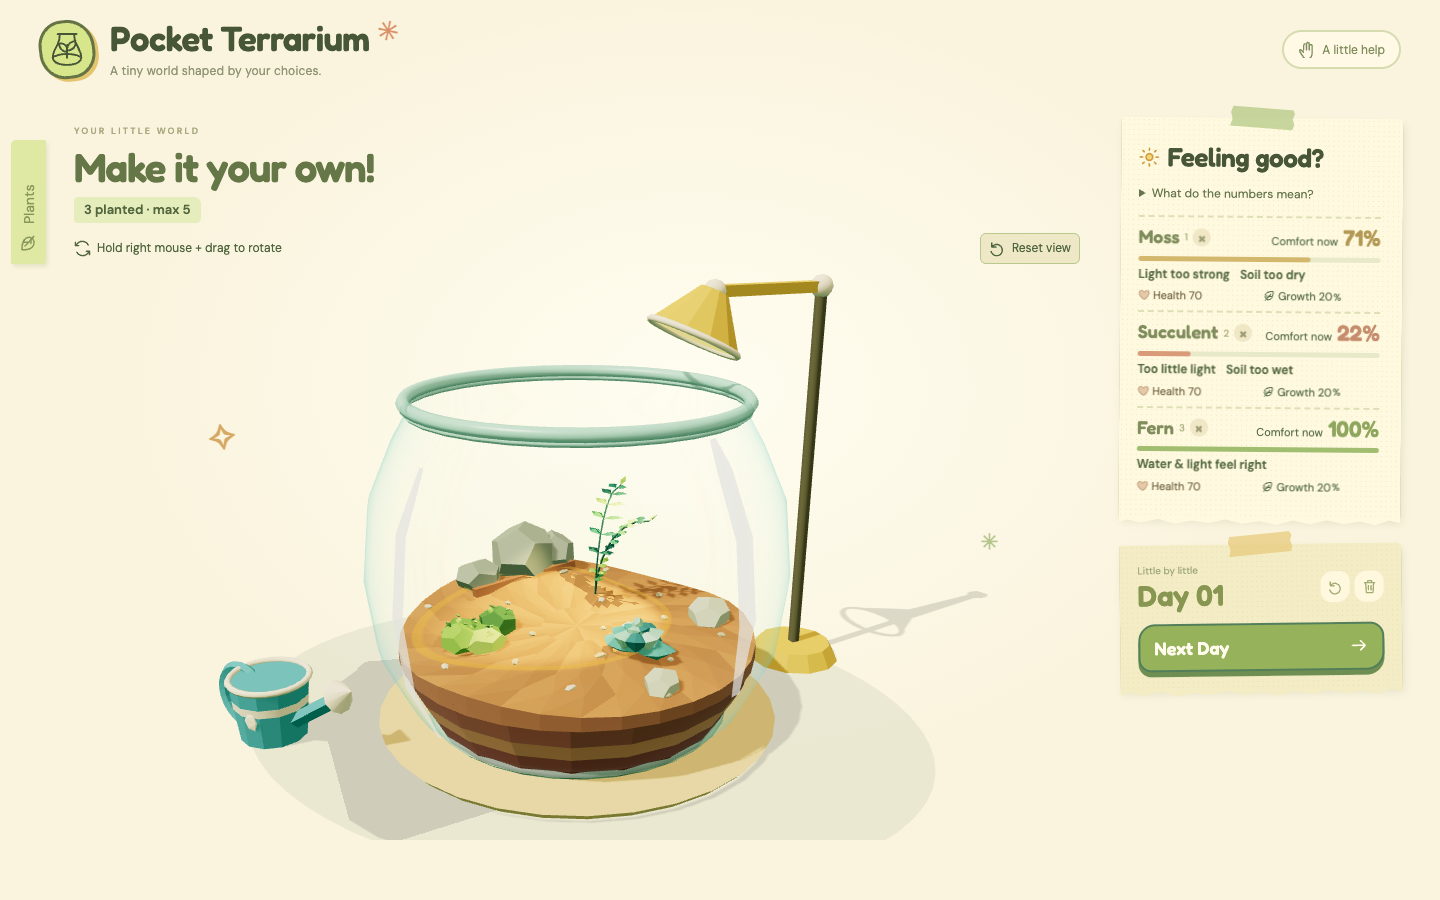
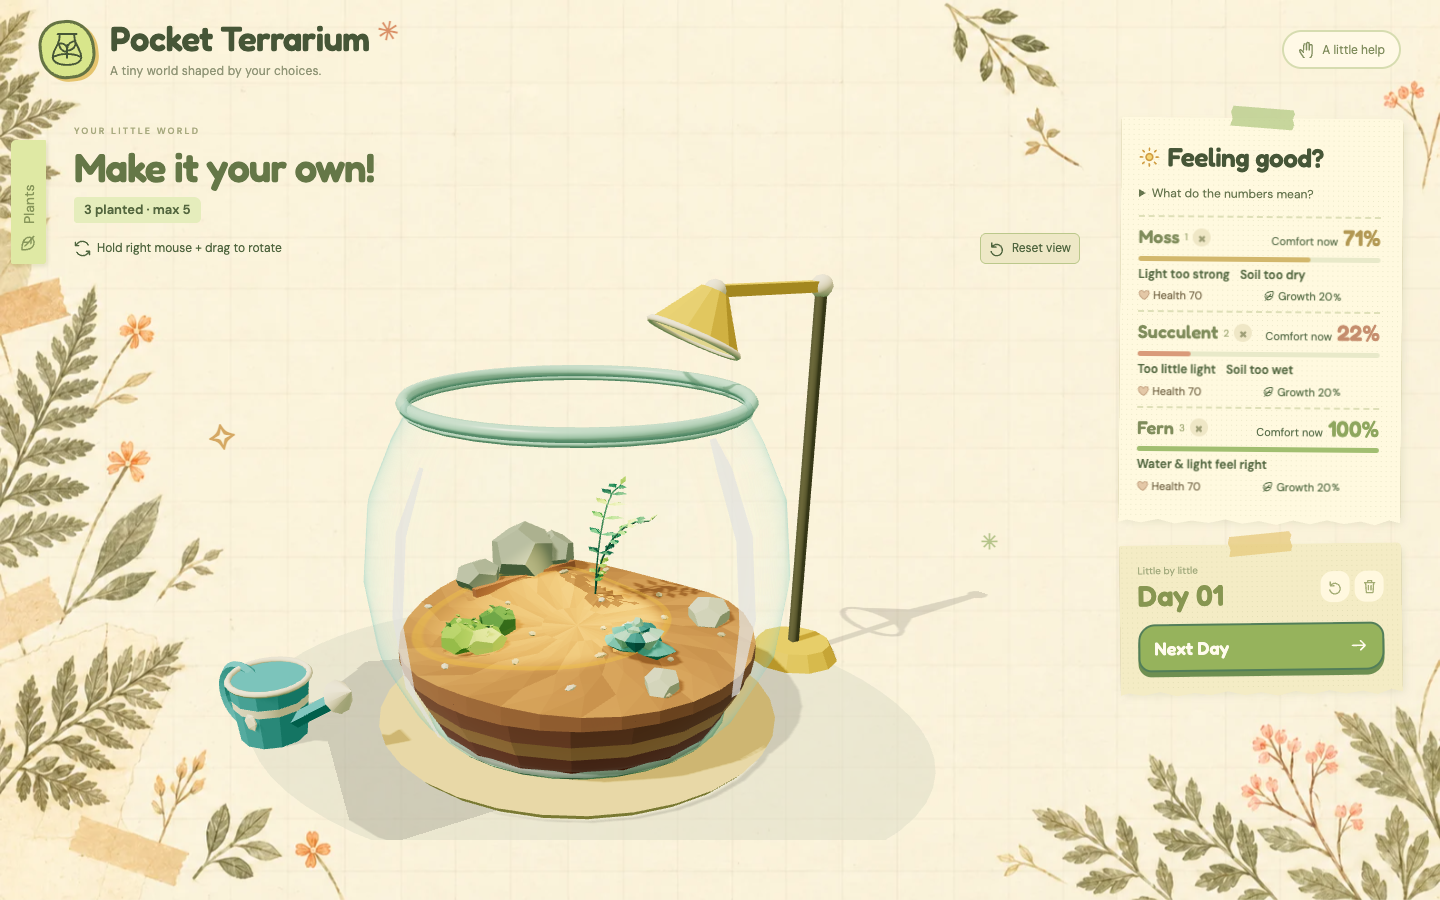
Add approved botanical journal background and update design credits

diff --git a/src/styles/background.css b/src/styles/background.css
@@ -1,0 +1,21 @@
+/* Decorative botanical paper only; all UI and terrarium objects remain live. */
+body {
+  isolation: isolate;
+  background: #faf3dd;
+}
+body::before {
+  content: "";
+  position: fixed;
+  inset: 0;
+  z-index: -1;
+  pointer-events: none;
+  background-image: url("../assets/backgrounds/botanical-journal.webp");
+  background-repeat: no-repeat;
+  background-size: cover;
+  background-position: center;
+}
+@media (max-width: 680px) {
+  body::before {
+    background-position: 12% center;
+  }
+}

diff --git a/src/main.js b/src/main.js
@@ -1,5 +1,6 @@
 import "./styles/main.css";
 import "./styles/desk.css";
+import "./styles/background.css";
 import { createUI } from "./ui/uiController.js";
 import { createScene } from "./scene/createScene.js";
 import { createInteractions } from "./interactions/plantDrag.js";

diff --git a/PROCESS.md b/PROCESS.md
@@ -135,3 +135,23 @@ Author review requested removing the Health hover hint, simplifying the low-heal
 ## Publication approved · 2026-10-22
 
 The author approved publishing the accumulated local soil/lifecycle and UI refinements. All 36 Node checks and the production build passed before submission. The prior local-only entries document the review stage; the published revision and deployment result are tracked in Git and GitHub Actions.
+
+
+## Author-selected AD background · 2026-10-22 · local only
+
+After comparing generated concepts A–D and five follow-up variants, the author chose AD: cream watercolor paper, pale honey wood and sage gingham. Generated a separate clean background with all UI/models removed, retained its native dimensions and encoded a 77,540-byte WebP. Implemented responsive decorative wall/table layers with Vite-managed asset paths. Replaced the previous pale floor ellipse with a world-space cloth mesh and one static procedural gingham texture, preserving orbit, the original models, lighting and ecological data. No continuous background animation was added. Source, final prompt and implementation decisions are in docs/design/ad-background.md. This is an author design choice, not a participant test, and remains local pending approval to publish.
+
+Validation: production build passed; the repository-subpath preview loaded the background, fonts and favicon without errors and passed its planting/day workflow. Existing tool/aim/orbit workflows passed. Inspected expanded/collapsed/rotated desktop and narrow-screen captures, and confirmed camera rotation leaves simulation data unchanged. No new participant testing or universal frame-rate claim is implied.
+
+
+## Consistent tabletop perspective · 2026-10-22 · local only
+
+The author correctly identified inconsistent motion: the mat was world-space but the wood was painted into a fixed CSS backdrop. Removed the CSS wood layer and added a thin actual 3D tabletop using the existing wood artwork as its texture. Tabletop, cloth, tools and jar now share one camera. Restricted the shadow receiver to the desk surface and added texture cleanup. This corrects the mixed spatial representation without changing plant coordinates, light simulation, or controls. Verified camera rotation changes the view while preserving table/mat/ecology data, and inspected front/rotated captures. Remains local without commit or publication.
+
+
+## Botanical journal background replaces desk experiments · 2026-10-22 · local only
+
+The author rejected the AD tabletop results and selected the earlier botanical-journal (B) concept instead. Removed the experimental 3D table/cloth and their unused assets; restored the original scene floor and shadow setup. Generated a clean background containing only ivory grid paper, marginal pressed-botanical illustrations and small decorative tape marks. No UI, text or 3D objects are baked into that asset. Earlier AD entries describe abandoned local explorations, not the final implementation. Existing simulation, UI controls and right-button orbit remain intact. No commit or publication was requested.
+
+
+Publication approved on 2026-10-22: the author approved the final botanical-journal background for GitHub. The abandoned AD desk/cloth experiments are excluded from the release. All 36 Node checks and the production build passed before publishing.

diff --git a/docs/design/botanical-background.md b/docs/design/botanical-background.md
@@ -1,0 +1,13 @@
+# Botanical journal background
+
+The author selected the earlier B concept after reviewing the tabletop experiments. The final backdrop is flat ivory grid paper with pressed-botanical marginal illustrations and decorative masking tape. There is no wood, horizon, table, cloth, UI or scene object inside the background image.
+
+- Asset: [botanical-journal.webp](../../src/assets/backgrounds/botanical-journal.webp), encoded as WebP at its generated dimensions.
+- Layout: [background.css](../../src/styles/background.css), a static pointer-transparent layer with Vite-managed asset URLs.
+- Scene: original floor/shadow setup restored. Models, growth, water, light and camera remain interactive; this picture does not replace them.
+- Built-in OpenAI image generation was used, with the author-approved B mockup as the edit target. No original external reference image is shipped as a texture.
+- Local review only; no commit or deployment without approval.
+
+## Final prompt
+
+Use case: precise-object-edit / background-extraction. This approved Pocket Terrarium botanical-journal screenshot is the edit target. Create ONLY its decorative page background as a production-ready landscape image. Preserve the warm ivory handmade paper, faint large square grid, softly aged paper texture, sage/olive pressed fern and leaf illustrations cropped along the left margin and bottom corners, tiny restrained ochre/coral flowers, small translucent torn masking-tape decorations along the far left edge, and a few thin sprigs at the top-right. Keep the broad central 65 percent mostly clean ivory grid paper. All botanical art must remain low contrast and concentrated at the edges so real UI text stays legible. REMOVE the entire interface: all logo, titles, text, numbers, buttons, cards, notes, panel tape, icons, model objects, jar, glass, plants inside jar, lamp, watering can, plate, all cast shadows and the bottom-left B label. Seamlessly fill these areas with clean paper and continued faint grid lines. NO wood tabletop, NO table, NO gingham, NO cloth, NO horizon line, NO perspective ground plane, NO blank cutouts. Flat botanical scrapbook paper illustration, not photorealistic. Full-frame 1440:900-ish landscape; no text, no watermark, no UI or model remnants anywhere.

diff --git a/README.md b/README.md
@@ -78,6 +78,7 @@ The GitHub Actions workflow in [.github/workflows/deploy.yml](.github/workflows/
 - **DM Sans** — DM Sans Project Authors; SIL Open Font License 1.1. [Bundled license](public/fonts/DM-Sans-LICENSE.txt), [font source](https://github.com/googlefonts/dm-fonts).
 - **Libre Caslon Display** — Libre Caslon Display Authors; SIL Open Font License 1.1. Bundled from the earlier visual direction. [Bundled license](public/fonts/Libre-Caslon-Display-LICENSE.txt), [font source](https://github.com/impallari/Libre-Caslon-Display).
 - **Visual references** — user-supplied screenshots from Xiaohongshu, including [Garden Galaxy](https://store.steampowered.com/app/1970460/Garden_Galaxy/) by Anneka Tran, a stylized island/lighthouse reference credited in the supplied screenshot to “ubrilliantidiot”, illustrated game interfaces, paper-note examples and a photographed terrarium. Original post URLs and some creators were not supplied, so that attribution remains incomplete. They informed layout, colour, material and composition only. Reference images are not included in the app as backgrounds, textures or models; scene geometry and UI are authored in code.
+- **Botanical journal backdrop** — author-selected AI-assisted illustration generated with OpenAI’s built-in image tool. The asset contains only ivory grid paper and marginal botanical art; all interface and interactive models remain rendered separately. [Asset and final prompt](docs/design/botanical-background.md).
 - **AI assistance** — OpenAI Codex assisted implementation, procedural modeling, iteration, debugging, tests and documentation, with guidance from the user-invoked 3dviz-pro-max skill. No generated raster image replaces the interactive scene, and the running app calls no AI service. See [PROCESS.md](PROCESS.md).
 
 ## Limits
